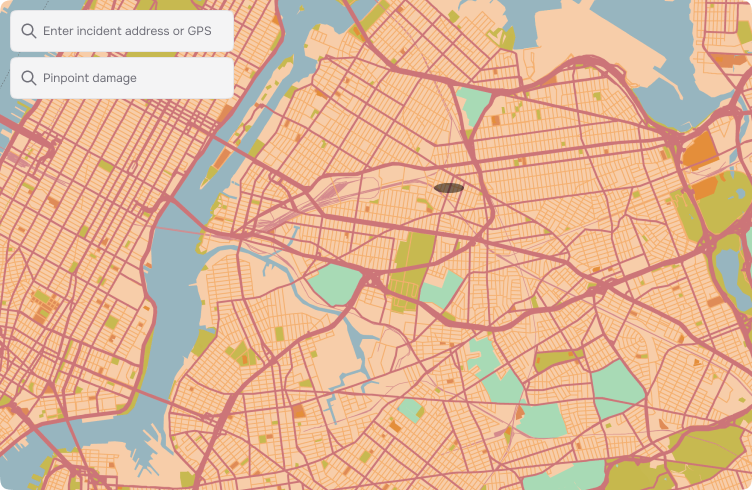
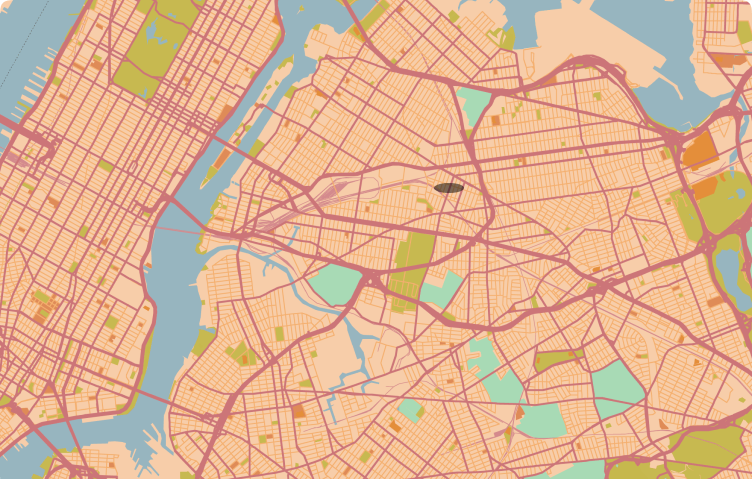
incident map update

diff --git a/src/components/pages/incidents/IncidentsLocation.jsx b/src/components/pages/incidents/IncidentsLocation.jsx
@@ -1,5 +1,6 @@
 import { useNavigate } from "react-router-dom";
 import NewIncident from "../../shared/NewIncident";
+import { IoIosSearch } from "react-icons/io";
 
 const IncidentsLocation = () => {
   const navigate = useNavigate();
@@ -29,7 +30,27 @@ const IncidentsLocation = () => {
             as possible, or click:Jurisdiction Wide
           </p>
         </div>
-        <img src="/google-map.png" alt="google map" className="img-fluid" />
+        <div className="relative">
+          <img src="/google-map.png" alt="google map" />
+          <div className="flex flex-col gap-2 absolute top-3 left-3 z-[9999]">
+            <div className="relative">
+              <input
+                type="text"
+                placeholder="Enter incident address or GPS"
+                className="bg-whiteLight px-6 py-2 rounded-md focus:outline-none focus:shadow-inner focus:shadow-sky-300 text-grayBold text-14"
+              />
+              <IoIosSearch className=" absolute top-2 left-0 size-5 text-grayBold" />
+            </div>
+            <div className="relative">
+              <input
+                type="text"
+                placeholder="Pinpoint damage"
+                className="bg-whiteLight px-6 py-2 rounded-md focus:outline-none focus:shadow-inner focus:shadow-sky-300 text-grayBold text-14"
+              />
+              <IoIosSearch className=" absolute top-2 left-0 size-5 text-grayBold" />
+            </div>
+          </div>
+        </div>
       </div>
     </div>
   );

diff --git a/src/components/pages/dashboard/Dashboard.jsx b/src/components/pages/dashboard/Dashboard.jsx
@@ -20,7 +20,7 @@ const Dashboard = () => {
       </div>
 
       <button
-        className="bg-orange text-white md:w-[77px] w-[57px] md:h-[77px] h-[57px] rounded-full inline-flex justify-center items-center bottom-4 right-4 fixed hover:cursor-pointer font-bold text-[55px] font-white font-babesNeue z-[9999]"
+        className="bg-orange text-white md:w-[77px] w-[57px] md:h-[77px] h-[57px] rounded-full inline-flex justify-center items-center bottom-4 right-4 fixed hover:cursor-pointer font-bold text-[55px] font-white font-babesNeue z-[9999] hover:scale-95 transition-all duration-300"
         onClick={handleChat}
       >
         {chatOpen ? <IoClose /> : "C"}

diff --git a/src/components/pages/Location/Location.jsx b/src/components/pages/Location/Location.jsx
@@ -137,7 +137,7 @@ const Location = () => {
           </div>
         </div>
         {/* map */}
-        <div className="md:w-1/2 mx-3 w-[90%] flex flex-col justify-center items-center">
+        <div className="md:w-1/2 ms-5 w-[90%] flex flex-col justify-center items-start">
           <p className="text-14 leading-6 text-grayBold mb-5">Incident Map</p>
           <img src="/location-map.png" alt="" />
           <p className="text-14 leading-6 text-grayBold mb-5">
